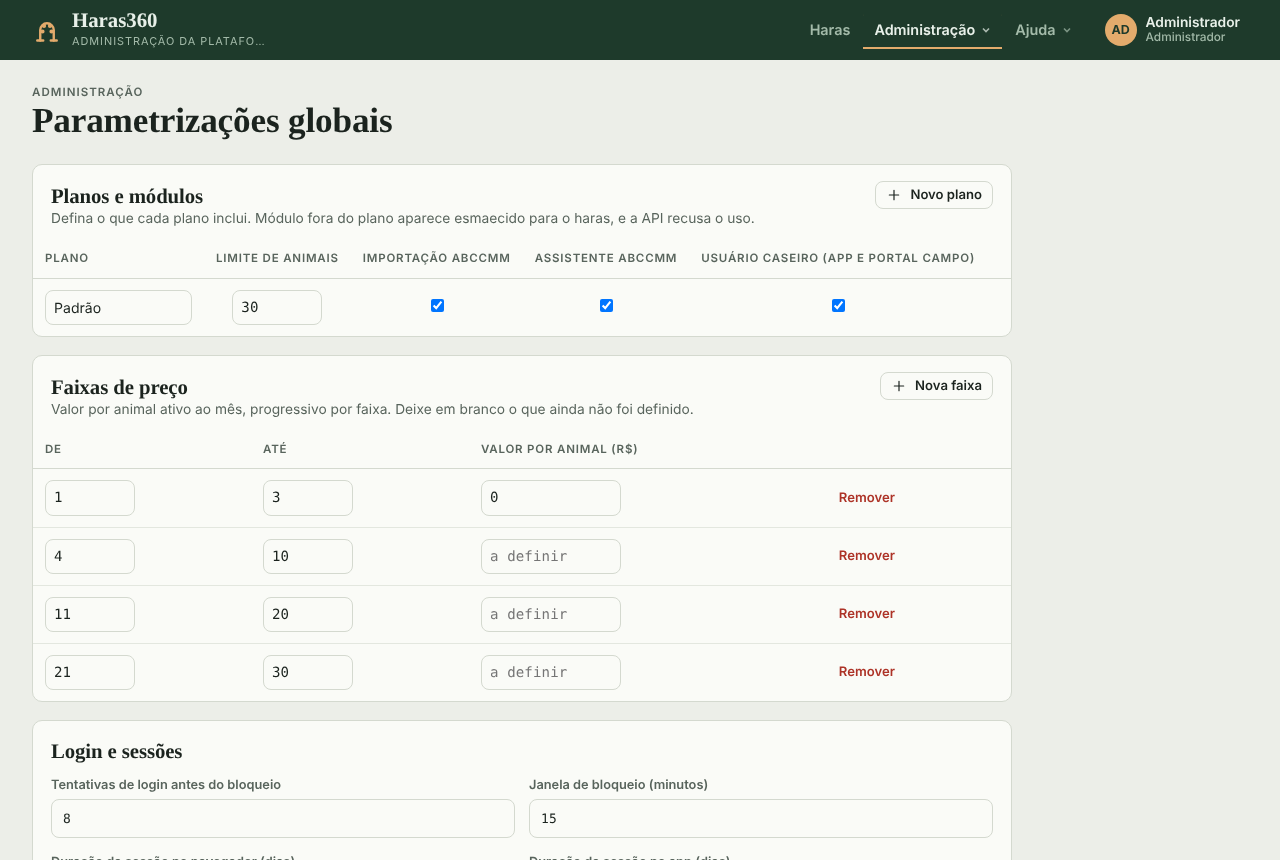
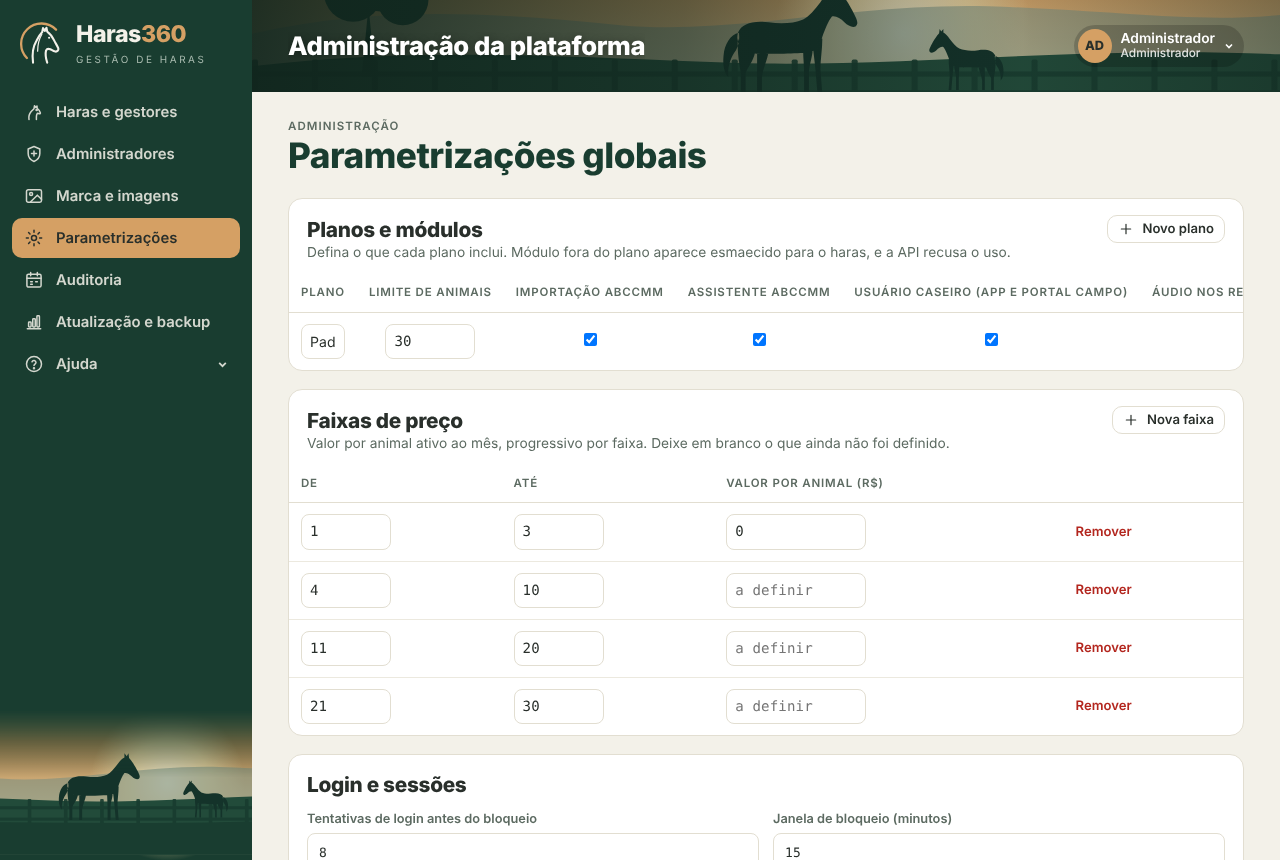
v1.3.0: versão, histórico, README, manual (menus, imagens do haras, marca da plataforma), capturas novas e teste do app sem aviso nas capturas
Claude-Session: https://claude.ai/code/session_01WrFXA8vd7puHpu6whifFWK

diff --git a/backend/app/static/ajuda.html b/backend/app/static/ajuda.html
@@ -381,7 +381,7 @@ kbd{font-family:var(--f-mono);font-size:.84em;background:var(--surface-2);border
 <header class="acab"><div class="acab-in"><div class="row" style="gap:10px;margin-bottom:12px"><span id="marca-ajuda" class="row" style="gap:10px"><svg class="logo-sim" viewBox="0 0 120 120" aria-hidden="true"><path d="M18 94 A50 50 0 0 1 94 20" fill="none" stroke="#D5A064" stroke-width="6" stroke-linecap="round"/><path d="M34 106 C31 84 34 64 43 49 C48 39 53 31 58 26 L60 16 L65 23 L69 15 L71 25 C78 30 84 38 89 48 C93 56 98 63 100 69 C101 74 97 78 92 77 C87 76 83 73 79 71 C74 69 70 70 68 74 C66 82 67 94 71 106" fill="none" stroke="#F3F1E9" stroke-width="5.5" stroke-linejoin="round" stroke-linecap="round"/><path d="M57 32 C50 44 46 58 46 76" fill="none" stroke="#F3F1E9" stroke-width="3.2" stroke-linecap="round"/><circle cx="76" cy="41" r="2.8" fill="#F3F1E9"/></svg><span class="marca-txt"><b>Haras<i>360</i></b><small>Gestão de haras</small></span></span></div><div class="eyebrow" style="color:var(--forest-muted)">Ajuda</div><h1>Manual do Haras360</h1><p>Como usar o portal do gestor, o Portal Campo e a administração da plataforma. As telas mostram o Haras Demonstração, com dados fictícios.</p></div></header>
 <div class="corpo">
   <nav class="sumario" aria-label="Sumário">
-    <a href="#acesso">Primeiro acesso e 2FA</a><a href="#painel">Painel</a><a href="#importar">Importar ABCCMM</a><a href="#animais">Animais e prontuário</a><a href="#agenda">Agenda e protocolos</a><a href="#campo">Portal Campo</a><a href="#app">App Android do caseiro</a><a href="#equipe">Equipe e sessões</a><a href="#parametros">Parametrizações</a><a href="#auditoria">Auditoria</a><a href="#admin">Administração da plataforma</a><a href="#atualizacao">Atualização e backup</a>
+    <a href="#acesso">Primeiro acesso e 2FA</a><a href="#painel">Dashboard e menus</a><a href="#importar">Importar ABCCMM</a><a href="#animais">Animais e prontuário</a><a href="#agenda">Agenda e protocolos</a><a href="#campo">Portal Campo</a><a href="#app">App Android do caseiro</a><a href="#equipe">Equipe e sessões</a><a href="#parametros">Parametrizações</a><a href="#imagens">Imagens do haras</a><a href="#auditoria">Auditoria</a><a href="#admin">Administração da plataforma</a><a href="#marca">Marca e imagens da plataforma</a><a href="#atualizacao">Atualização e backup</a>
   </nav>
   <article>
     <section id="acesso"><h2>Primeiro acesso e verificação em duas etapas</h2>
@@ -390,10 +390,14 @@ kbd{font-family:var(--f-mono);font-size:.84em;background:var(--surface-2);border
       <figure><img src="/ajuda/img/2fa.png" alt="Tela de ativação do 2FA com QR Code" loading="lazy"><figcaption>Ativação do 2FA no primeiro acesso do gestor.</figcaption></figure>
       <p>Perdeu o celular? Na tela do código, use "Perdi o celular: usar código de recuperação". Depois, gere novos códigos no menu com o seu nome. Se não tiver mais códigos, outro gestor ou o administrador redefine o seu 2FA.</p>
     </section>
-    <section id="painel"><h2>Painel</h2><span class="perfil">Gestor</span>
-      <p>Mostra o que precisa de atenção: procedimentos atrasados, os previstos para os próximos 7 dias, pendências da ABCCMM, gestações em andamento e os últimos registros feitos pelo caseiro.</p>
-      <figure><img src="/ajuda/img/painel.png" alt="Painel do gestor" loading="lazy"><figcaption>Painel do gestor com a barra de menus no topo.</figcaption></figure>
-      <p>Os menus ficam agrupados: Plantel (Animais, Importar ABCCMM), Manejo (Agenda, Protocolos), Equipe, Assistente, Administração e Ajuda. O sino mostra os avisos não lidos.</p>
+    <section id="painel"><h2>Dashboard e menus</h2><span class="perfil">Gestor</span>
+      <p>O Dashboard mostra o que precisa de atenção: cinco indicadores (animais, vacinas vencidas, vacinas dos próximos 7 dias, gestações ativas e partos previstos para 30 dias), os próximos eventos, a composição do rebanho, a situação reprodutiva, a lista Atenção agora e os últimos registros feitos pelo caseiro.</p>
+      <figure><img src="/ajuda/img/painel.png" alt="Dashboard do gestor" loading="lazy"><figcaption>Dashboard do gestor com o menu lateral.</figcaption></figure>
+      <p>O menu fica na lateral, agrupado por módulo: Dashboard; Animais (Plantel, Importar ABCCMM); Sanidade (Vacinas e manejos, Protocolos); Reprodução; Agenda; Relatórios (em breve); Administração (Equipe, Parametrizações, Auditoria, Assistente, Plano) e Ajuda. Toque no nome do grupo para abrir ou fechar. No celular, o menu abre pelo botão ☰. No cabeçalho ficam o logotipo e o nome do haras, o sino com os avisos não lidos e o menu com o seu nome.</p>
+      <div class="fotos-app">
+        <figure><img src="/ajuda/img/sanidade.png" alt="Vacinas e manejos" loading="lazy"><figcaption>Sanidade › Vacinas e manejos.</figcaption></figure>
+        <figure><img src="/ajuda/img/reproducao.png" alt="Reprodução" loading="lazy"><figcaption>Reprodução: coberturas, diagnósticos e partos previstos.</figcaption></figure>
+      </div>
     </section>
     <section id="importar"><h2>Importar o Relatório de Plantel ABCCMM</h2><span class="perfil">Gestor</span>
       <ol><li>No Sistema de Gestão ABCCMM, gere o Relatório de Plantel em PDF.</li><li>Em Plantel › Importar ABCCMM, envie o PDF. A leitura acontece no seu navegador.</li><li>Confira a lista: o sistema compara com o total informado no relatório e marca animais novos, a atualizar e já cadastrados.</li><li>Clique em Importar. A agenda sanitária é calculada na hora.</li></ol>
@@ -410,24 +414,27 @@ kbd{font-family:var(--f-mono);font-size:.84em;background:var(--surface-2);border
       <p>Em Manejo › Protocolos você ajusta idades, séries, intervalos e ativa ou desativa cada item. Os padrões seguem a VetJr. UFMG para vacinas e práticas de mercado para os demais manejos; valide com o veterinário do plantel.</p>
     </section>
     <section id="campo"><h2>Portal Campo do caseiro</h2><span class="perfil">Caseiro</span>
-      <p>Feito para o celular: tarefas do dia, fichas dos animais, registro com fotos e ocorrências. Ao tocar em Registrar em uma tarefa, o formulário já vem preenchido.</p>
+      <p>Feito para o celular: tarefas do dia, fichas dos animais, registro com fotos e ocorrências. Ao tocar em Registrar em uma tarefa, o formulário já vem preenchido. O botão <b>Registrar ocorrência</b> fica no topo da tela Hoje. A barra de baixo tem Hoje, Animais, Agenda (próximos 30 dias) e Mais (avisos, assistente, instalar o app, senha, manual e sair).</p>
       <figure><img src="/ajuda/img/campo.png" alt="Portal Campo no celular" loading="lazy" style="max-width:420px"><figcaption>Portal Campo na largura de um celular.</figcaption></figure>
       <p>Para trabalhar sem internet no campo, use o app Android: toque em <b>Instalar o app Android</b>, no topo da tela Hoje.</p>
     </section>
     <section id="app"><h2>App Android do caseiro</h2><span class="perfil">Caseiro</span><span class="perfil">Gestor</span>
       <p>O app funciona sem internet: o caseiro registra no pasto e o celular envia sozinho quando chega ao Wi-Fi da sede. Dados móveis (3G/4G) não são usados. Android 8 ou superior.</p>
-      <ol><li><b>Instalar:</b> no celular do caseiro, entre no Portal Campo e toque em Instalar o app Android, no topo da tela Hoje. O gestor também encontra o link e um QR Code de download na janela Vincular celular. Se o Android pedir, permita instalar apps desta origem.</li><li><b>Vincular:</b> o gestor abre Equipe e toca em Vincular celular na linha do caseiro. No app, toque em Ler QR Code. O código vale 10 minutos e uma única vez. Sem câmera, digite o servidor e o código mostrados abaixo do QR Code.</li><li><b>Trabalhar:</b> a tela Hoje mostra as tarefas atrasadas, de hoje e da semana. Toque em Registrar numa tarefa e o formulário já vem preenchido. Até 4 fotos por registro, comprimidas no celular, e um áudio de até 2 minutos: toque em Gravar áudio, fale e toque em Parar. Dá para ouvir e apagar antes de salvar.</li><li><b>Enviar:</b> a cada hora, e sempre que o app abre no Wi-Fi, os registros e as fotos vão para o servidor. Na aba Envio estão a fila, a hora da última sincronização e o botão Sincronizar agora.</li></ol>
+      <ol><li><b>Instalar:</b> no celular do caseiro, entre no Portal Campo e toque em Instalar o app Android, no topo da tela Hoje. O gestor também encontra o link e um QR Code de download na janela Vincular celular. Se o Android pedir, permita instalar apps desta origem.</li><li><b>Vincular:</b> o gestor abre Equipe e toca em Vincular celular na linha do caseiro. No app, toque em Ler QR Code. O código vale 10 minutos e uma única vez. Sem câmera, digite o servidor e o código mostrados abaixo do QR Code.</li><li><b>Trabalhar:</b> a tela Hoje mostra as tarefas atrasadas, de hoje e da semana. Toque em Registrar numa tarefa e o formulário já vem preenchido. Até 4 fotos por registro, comprimidas no celular, e um áudio de até 2 minutos: toque em Gravar áudio, fale e toque em Parar. Dá para ouvir e apagar antes de salvar.</li><li><b>Enviar:</b> a cada hora, e sempre que o app abre no Wi-Fi, os registros e as fotos vão para o servidor. Em Mais › Envio estão a fila, a hora da última sincronização e o botão Sincronizar agora.</li></ol>
+      <p>A barra de baixo do app tem Hoje, Animais, Agenda (próximos 30 dias) e Mais (Avisos, Envio, versão do app e vincular de novo). O fundo e o logotipo do haras são baixados no Wi-Fi e ficam guardados no celular.</p>
       <figure><img src="/ajuda/img/vincular.png" alt="QR Code para vincular o celular do caseiro" loading="lazy"><figcaption>Equipe › Vincular celular: o QR Code que o app lê.</figcaption></figure>
       <div class="fotos-app">
         <figure><img src="/ajuda/img/app-hoje.png" alt="Tela Hoje do app" loading="lazy"><figcaption>Tarefas do dia, mesmo sem internet.</figcaption></figure>
         <figure><img src="/ajuda/img/app-registro.png" alt="Registro de ocorrência no app, com áudio" loading="lazy"><figcaption>Registro com áudio, gravado no celular.</figcaption></figure>
-        <figure><img src="/ajuda/img/app-envio-pendente.png" alt="Aba Envio com um registro aguardando o Wi-Fi" loading="lazy"><figcaption>Aguardando o Wi-Fi para enviar.</figcaption></figure>
+        <figure><img src="/ajuda/img/app-agenda.png" alt="Agenda do app" loading="lazy"><figcaption>Agenda dos próximos 30 dias.</figcaption></figure>
+        <figure><img src="/ajuda/img/app-mais.png" alt="Tela Mais do app" loading="lazy"><figcaption>Mais: avisos, envio e versão.</figcaption></figure>
+        <figure><img src="/ajuda/img/app-envio-pendente.png" alt="Envio com um registro aguardando o Wi-Fi" loading="lazy"><figcaption>Aguardando o Wi-Fi para enviar.</figcaption></figure>
       </div>
       <p>O registro feito no app aparece no prontuário com a origem "App". Quando tem áudio, o gestor ouve pelo player no próprio registro, no prontuário e nos últimos registros do campo do Painel. O áudio vai para o servidor só no Wi-Fi, como as fotos, e sai junto se o registro for excluído.</p>
       <figure><img src="/ajuda/img/audio-painel.png" alt="Player de áudio nos últimos registros do campo" loading="lazy" style="max-width:460px"><figcaption>Áudio do caseiro no Painel do gestor.</figcaption></figure>
       <p>O administrador liga ou desliga o áudio por plano (grade de planos e módulos) e define a duração máxima em Parametrizações › App do caseiro.</p>
       <p> O gestor pode encerrar o celular em Equipe › Sessões e aparelhos ativos; os registros que ainda estiverem no celular continuam guardados até um novo vínculo. Se o servidor recusar um registro (por exemplo, animal excluído), ele fica em Envio › Recusados pelo servidor, com Tentar de novo.</p>
-      <p>Quando o servidor recebe uma versão nova, o app avisa na aba Envio e oferece o download. A atualização instala por cima, sem perder dados.</p>
+      <p>Quando o servidor recebe uma versão nova, o app avisa em Mais › Envio e oferece o download. A atualização instala por cima, sem perder dados.</p>
     </section>
     <section id="equipe"><h2>Equipe e sessões</h2><span class="perfil">Gestor</span>
       <p>Adicione gestores e caseiros com senha inicial. Para cada pessoa você pode redefinir a senha, redefinir o 2FA de outro gestor e desativar o acesso. Em Sessões e aparelhos ativos aparecem os navegadores e celulares conectados; encerre os que não reconhecer.</p>
@@ -436,6 +443,12 @@ kbd{font-family:var(--f-mono);font-size:.84em;background:var(--surface-2);border
     <section id="parametros"><h2>Parametrizações do haras</h2><span class="perfil">Gestor</span>
       <p>Logotipo do haras, dados do haras, reforço da raiva anual ou semestral, dias de gestação usados na previsão de parto e tolerância para reiniciar a primovacinação.</p><p>O logotipo aparece na barra superior do Portal do Gestor e do Portal Campo. Envie PNG, JPG ou WebP com fundo branco ou transparente: o sistema recorta as margens vazias e reduz a imagem. O administrador também pode enviar ou trocar o logotipo ao cadastrar o haras.</p>
       <figure><img src="/ajuda/img/parametros.png" alt="Parametrizações do haras" loading="lazy"><figcaption>Parametrizações do haras.</figcaption></figure>
+    </section>
+    <section id="imagens"><h2>Imagens do haras</h2><span class="perfil">Gestor</span>
+      <p>Em Administração › Parametrizações › Imagens do haras, o gestor personaliza o portal e o app com imagens próprias:</p>
+      <ul><li><b>Imagem do cabeçalho:</b> faixa no topo do Portal do Gestor e do Portal Campo.</li><li><b>Banner do Dashboard:</b> imagem larga no Dashboard.</li><li><b>Fundo do app:</b> fundo da tela de abertura e do topo da tela Hoje no app Android.</li></ul>
+      <p>Envie PNG, JPG ou WebP de até 3 MB. O navegador reduz a imagem antes do envio. Escolha o foco (centro, topo ou base) para indicar que parte aparece quando a imagem é recortada. <b>Usar a padrão</b> volta para a imagem da plataforma. Cada troca fica na auditoria. O app baixa a imagem nova na próxima sincronização pelo Wi-Fi.</p>
+      <figure><img src="/ajuda/img/imagens.png" alt="Imagens do haras" loading="lazy"><figcaption>Imagens do haras com um banner próprio.</figcaption></figure>
     </section>
     <section id="auditoria"><h2>Auditoria</h2><span class="perfil">Gestor</span><span class="perfil">Administrador</span>
       <p>Registra logins (inclusive recusados), 2FA, importações, exclusões com o conteúdo excluído, mudanças de protocolo e de parametrização, usuários, atualizações e backups. Filtre por ação, texto e período.</p>
@@ -447,6 +460,14 @@ kbd{font-family:var(--f-mono);font-size:.84em;background:var(--surface-2);border
       <figure><img src="/ajuda/img/admin-parametros.png" alt="Planos e módulos" loading="lazy"><figcaption>Grade de planos e módulos. Por padrão tudo vem liberado.</figcaption></figure>
       <p>Em Administração › Administradores, crie outros administradores, redefina a senha ou o 2FA de outro administrador e desative quem não deve mais entrar. Cada ação pede a sua senha e fica na auditoria. Ninguém desativa a própria conta, e a plataforma nunca fica sem administrador ativo. Para a sua conta, use o menu com o seu nome.</p>
       <figure><img src="/ajuda/img/admin-administradores.png" alt="Lista de administradores" loading="lazy"><figcaption>Administradores da plataforma.</figcaption></figure>
+    </section>
+    <section id="marca"><h2>Marca e imagens da plataforma</h2><span class="perfil">Administrador</span>
+      <p>Em Marca e imagens, o administrador troca o logotipo da plataforma e as imagens padrão: imagem da tela de entrada, cabeçalho, banner do Dashboard e fundo do app. As imagens padrão valem para todos os haras que não enviaram a sua. Sem nenhuma imagem enviada, o Haras360 usa a sua ilustração própria.</p>
+      <div class="fotos-app">
+        <figure><img src="/ajuda/img/admin-marca.png" alt="Marca e imagens" loading="lazy"><figcaption>Logotipo e imagens padrão da plataforma.</figcaption></figure>
+        <figure><img src="/ajuda/img/entrar.png" alt="Tela de entrada" loading="lazy"><figcaption>Tela de entrada com a imagem da plataforma.</figcaption></figure>
+      </div>
+      <p>As imagens ficam em <code>/opt/haras360/compartilhado/imagens</code> e entram no backup diário.</p>
     </section>
     <section id="atualizacao"><h2>Atualização e backup</h2><span class="perfil">Administrador</span>
       <ol><li>Na Release da versão no GitHub, baixe <span class="mono">haras360-X.Y.Z.tar.gz</span> e anote o SHA-256.</li><li>No Windows, rode <kbd>python assinar-pacote.py haras360-X.Y.Z.tar.gz</kbd> e digite a senha da chave (a mesma do Journey). Sai o arquivo <span class="mono">.sig</span>.</li><li>Em Administração › Atualização e backup, envie o pacote e a assinatura.</li></ol>

diff --git a/web/ajuda.html b/web/ajuda.html
@@ -30,7 +30,7 @@ kbd{font-family:var(--f-mono);font-size:.84em;background:var(--surface-2);border
 <header class="acab"><div class="acab-in"><div class="row" style="gap:10px;margin-bottom:12px"><span id="marca-ajuda" class="row" style="gap:10px"><svg class="logo-sim" viewBox="0 0 120 120" aria-hidden="true"><path d="M18 94 A50 50 0 0 1 94 20" fill="none" stroke="#D5A064" stroke-width="6" stroke-linecap="round"/><path d="M34 106 C31 84 34 64 43 49 C48 39 53 31 58 26 L60 16 L65 23 L69 15 L71 25 C78 30 84 38 89 48 C93 56 98 63 100 69 C101 74 97 78 92 77 C87 76 83 73 79 71 C74 69 70 70 68 74 C66 82 67 94 71 106" fill="none" stroke="#F3F1E9" stroke-width="5.5" stroke-linejoin="round" stroke-linecap="round"/><path d="M57 32 C50 44 46 58 46 76" fill="none" stroke="#F3F1E9" stroke-width="3.2" stroke-linecap="round"/><circle cx="76" cy="41" r="2.8" fill="#F3F1E9"/></svg><span class="marca-txt"><b>Haras<i>360</i></b><small>Gestão de haras</small></span></span></div><div class="eyebrow" style="color:var(--forest-muted)">Ajuda</div><h1>Manual do Haras360</h1><p>Como usar o portal do gestor, o Portal Campo e a administração da plataforma. As telas mostram o Haras Demonstração, com dados fictícios.</p></div></header>
 <div class="corpo">
   <nav class="sumario" aria-label="Sumário">
-    <a href="#acesso">Primeiro acesso e 2FA</a><a href="#painel">Painel</a><a href="#importar">Importar ABCCMM</a><a href="#animais">Animais e prontuário</a><a href="#agenda">Agenda e protocolos</a><a href="#campo">Portal Campo</a><a href="#app">App Android do caseiro</a><a href="#equipe">Equipe e sessões</a><a href="#parametros">Parametrizações</a><a href="#auditoria">Auditoria</a><a href="#admin">Administração da plataforma</a><a href="#atualizacao">Atualização e backup</a>
+    <a href="#acesso">Primeiro acesso e 2FA</a><a href="#painel">Dashboard e menus</a><a href="#importar">Importar ABCCMM</a><a href="#animais">Animais e prontuário</a><a href="#agenda">Agenda e protocolos</a><a href="#campo">Portal Campo</a><a href="#app">App Android do caseiro</a><a href="#equipe">Equipe e sessões</a><a href="#parametros">Parametrizações</a><a href="#imagens">Imagens do haras</a><a href="#auditoria">Auditoria</a><a href="#admin">Administração da plataforma</a><a href="#marca">Marca e imagens da plataforma</a><a href="#atualizacao">Atualização e backup</a>
   </nav>
   <article>
     <section id="acesso"><h2>Primeiro acesso e verificação em duas etapas</h2>
@@ -39,10 +39,14 @@ kbd{font-family:var(--f-mono);font-size:.84em;background:var(--surface-2);border
       <figure><img src="/ajuda/img/2fa.png" alt="Tela de ativação do 2FA com QR Code" loading="lazy"><figcaption>Ativação do 2FA no primeiro acesso do gestor.</figcaption></figure>
       <p>Perdeu o celular? Na tela do código, use "Perdi o celular: usar código de recuperação". Depois, gere novos códigos no menu com o seu nome. Se não tiver mais códigos, outro gestor ou o administrador redefine o seu 2FA.</p>
     </section>
-    <section id="painel"><h2>Painel</h2><span class="perfil">Gestor</span>
-      <p>Mostra o que precisa de atenção: procedimentos atrasados, os previstos para os próximos 7 dias, pendências da ABCCMM, gestações em andamento e os últimos registros feitos pelo caseiro.</p>
-      <figure><img src="/ajuda/img/painel.png" alt="Painel do gestor" loading="lazy"><figcaption>Painel do gestor com a barra de menus no topo.</figcaption></figure>
-      <p>Os menus ficam agrupados: Plantel (Animais, Importar ABCCMM), Manejo (Agenda, Protocolos), Equipe, Assistente, Administração e Ajuda. O sino mostra os avisos não lidos.</p>
+    <section id="painel"><h2>Dashboard e menus</h2><span class="perfil">Gestor</span>
+      <p>O Dashboard mostra o que precisa de atenção: cinco indicadores (animais, vacinas vencidas, vacinas dos próximos 7 dias, gestações ativas e partos previstos para 30 dias), os próximos eventos, a composição do rebanho, a situação reprodutiva, a lista Atenção agora e os últimos registros feitos pelo caseiro.</p>
+      <figure><img src="/ajuda/img/painel.png" alt="Dashboard do gestor" loading="lazy"><figcaption>Dashboard do gestor com o menu lateral.</figcaption></figure>
+      <p>O menu fica na lateral, agrupado por módulo: Dashboard; Animais (Plantel, Importar ABCCMM); Sanidade (Vacinas e manejos, Protocolos); Reprodução; Agenda; Relatórios (em breve); Administração (Equipe, Parametrizações, Auditoria, Assistente, Plano) e Ajuda. Toque no nome do grupo para abrir ou fechar. No celular, o menu abre pelo botão ☰. No cabeçalho ficam o logotipo e o nome do haras, o sino com os avisos não lidos e o menu com o seu nome.</p>
+      <div class="fotos-app">
+        <figure><img src="/ajuda/img/sanidade.png" alt="Vacinas e manejos" loading="lazy"><figcaption>Sanidade › Vacinas e manejos.</figcaption></figure>
+        <figure><img src="/ajuda/img/reproducao.png" alt="Reprodução" loading="lazy"><figcaption>Reprodução: coberturas, diagnósticos e partos previstos.</figcaption></figure>
+      </div>
     </section>
     <section id="importar"><h2>Importar o Relatório de Plantel ABCCMM</h2><span class="perfil">Gestor</span>
       <ol><li>No Sistema de Gestão ABCCMM, gere o Relatório de Plantel em PDF.</li><li>Em Plantel › Importar ABCCMM, envie o PDF. A leitura acontece no seu navegador.</li><li>Confira a lista: o sistema compara com o total informado no relatório e marca animais novos, a atualizar e já cadastrados.</li><li>Clique em Importar. A agenda sanitária é calculada na hora.</li></ol>
@@ -59,24 +63,27 @@ kbd{font-family:var(--f-mono);font-size:.84em;background:var(--surface-2);border
       <p>Em Manejo › Protocolos você ajusta idades, séries, intervalos e ativa ou desativa cada item. Os padrões seguem a VetJr. UFMG para vacinas e práticas de mercado para os demais manejos; valide com o veterinário do plantel.</p>
     </section>
     <section id="campo"><h2>Portal Campo do caseiro</h2><span class="perfil">Caseiro</span>
-      <p>Feito para o celular: tarefas do dia, fichas dos animais, registro com fotos e ocorrências. Ao tocar em Registrar em uma tarefa, o formulário já vem preenchido.</p>
+      <p>Feito para o celular: tarefas do dia, fichas dos animais, registro com fotos e ocorrências. Ao tocar em Registrar em uma tarefa, o formulário já vem preenchido. O botão <b>Registrar ocorrência</b> fica no topo da tela Hoje. A barra de baixo tem Hoje, Animais, Agenda (próximos 30 dias) e Mais (avisos, assistente, instalar o app, senha, manual e sair).</p>
       <figure><img src="/ajuda/img/campo.png" alt="Portal Campo no celular" loading="lazy" style="max-width:420px"><figcaption>Portal Campo na largura de um celular.</figcaption></figure>
       <p>Para trabalhar sem internet no campo, use o app Android: toque em <b>Instalar o app Android</b>, no topo da tela Hoje.</p>
     </section>
     <section id="app"><h2>App Android do caseiro</h2><span class="perfil">Caseiro</span><span class="perfil">Gestor</span>
       <p>O app funciona sem internet: o caseiro registra no pasto e o celular envia sozinho quando chega ao Wi-Fi da sede. Dados móveis (3G/4G) não são usados. Android 8 ou superior.</p>
-      <ol><li><b>Instalar:</b> no celular do caseiro, entre no Portal Campo e toque em Instalar o app Android, no topo da tela Hoje. O gestor também encontra o link e um QR Code de download na janela Vincular celular. Se o Android pedir, permita instalar apps desta origem.</li><li><b>Vincular:</b> o gestor abre Equipe e toca em Vincular celular na linha do caseiro. No app, toque em Ler QR Code. O código vale 10 minutos e uma única vez. Sem câmera, digite o servidor e o código mostrados abaixo do QR Code.</li><li><b>Trabalhar:</b> a tela Hoje mostra as tarefas atrasadas, de hoje e da semana. Toque em Registrar numa tarefa e o formulário já vem preenchido. Até 4 fotos por registro, comprimidas no celular, e um áudio de até 2 minutos: toque em Gravar áudio, fale e toque em Parar. Dá para ouvir e apagar antes de salvar.</li><li><b>Enviar:</b> a cada hora, e sempre que o app abre no Wi-Fi, os registros e as fotos vão para o servidor. Na aba Envio estão a fila, a hora da última sincronização e o botão Sincronizar agora.</li></ol>
+      <ol><li><b>Instalar:</b> no celular do caseiro, entre no Portal Campo e toque em Instalar o app Android, no topo da tela Hoje. O gestor também encontra o link e um QR Code de download na janela Vincular celular. Se o Android pedir, permita instalar apps desta origem.</li><li><b>Vincular:</b> o gestor abre Equipe e toca em Vincular celular na linha do caseiro. No app, toque em Ler QR Code. O código vale 10 minutos e uma única vez. Sem câmera, digite o servidor e o código mostrados abaixo do QR Code.</li><li><b>Trabalhar:</b> a tela Hoje mostra as tarefas atrasadas, de hoje e da semana. Toque em Registrar numa tarefa e o formulário já vem preenchido. Até 4 fotos por registro, comprimidas no celular, e um áudio de até 2 minutos: toque em Gravar áudio, fale e toque em Parar. Dá para ouvir e apagar antes de salvar.</li><li><b>Enviar:</b> a cada hora, e sempre que o app abre no Wi-Fi, os registros e as fotos vão para o servidor. Em Mais › Envio estão a fila, a hora da última sincronização e o botão Sincronizar agora.</li></ol>
+      <p>A barra de baixo do app tem Hoje, Animais, Agenda (próximos 30 dias) e Mais (Avisos, Envio, versão do app e vincular de novo). O fundo e o logotipo do haras são baixados no Wi-Fi e ficam guardados no celular.</p>
       <figure><img src="/ajuda/img/vincular.png" alt="QR Code para vincular o celular do caseiro" loading="lazy"><figcaption>Equipe › Vincular celular: o QR Code que o app lê.</figcaption></figure>
       <div class="fotos-app">
         <figure><img src="/ajuda/img/app-hoje.png" alt="Tela Hoje do app" loading="lazy"><figcaption>Tarefas do dia, mesmo sem internet.</figcaption></figure>
         <figure><img src="/ajuda/img/app-registro.png" alt="Registro de ocorrência no app, com áudio" loading="lazy"><figcaption>Registro com áudio, gravado no celular.</figcaption></figure>
-        <figure><img src="/ajuda/img/app-envio-pendente.png" alt="Aba Envio com um registro aguardando o Wi-Fi" loading="lazy"><figcaption>Aguardando o Wi-Fi para enviar.</figcaption></figure>
+        <figure><img src="/ajuda/img/app-agenda.png" alt="Agenda do app" loading="lazy"><figcaption>Agenda dos próximos 30 dias.</figcaption></figure>
+        <figure><img src="/ajuda/img/app-mais.png" alt="Tela Mais do app" loading="lazy"><figcaption>Mais: avisos, envio e versão.</figcaption></figure>
+        <figure><img src="/ajuda/img/app-envio-pendente.png" alt="Envio com um registro aguardando o Wi-Fi" loading="lazy"><figcaption>Aguardando o Wi-Fi para enviar.</figcaption></figure>
       </div>
       <p>O registro feito no app aparece no prontuário com a origem "App". Quando tem áudio, o gestor ouve pelo player no próprio registro, no prontuário e nos últimos registros do campo do Painel. O áudio vai para o servidor só no Wi-Fi, como as fotos, e sai junto se o registro for excluído.</p>
       <figure><img src="/ajuda/img/audio-painel.png" alt="Player de áudio nos últimos registros do campo" loading="lazy" style="max-width:460px"><figcaption>Áudio do caseiro no Painel do gestor.</figcaption></figure>
       <p>O administrador liga ou desliga o áudio por plano (grade de planos e módulos) e define a duração máxima em Parametrizações › App do caseiro.</p>
       <p> O gestor pode encerrar o celular em Equipe › Sessões e aparelhos ativos; os registros que ainda estiverem no celular continuam guardados até um novo vínculo. Se o servidor recusar um registro (por exemplo, animal excluído), ele fica em Envio › Recusados pelo servidor, com Tentar de novo.</p>
-      <p>Quando o servidor recebe uma versão nova, o app avisa na aba Envio e oferece o download. A atualização instala por cima, sem perder dados.</p>
+      <p>Quando o servidor recebe uma versão nova, o app avisa em Mais › Envio e oferece o download. A atualização instala por cima, sem perder dados.</p>
     </section>
     <section id="equipe"><h2>Equipe e sessões</h2><span class="perfil">Gestor</span>
       <p>Adicione gestores e caseiros com senha inicial. Para cada pessoa você pode redefinir a senha, redefinir o 2FA de outro gestor e desativar o acesso. Em Sessões e aparelhos ativos aparecem os navegadores e celulares conectados; encerre os que não reconhecer.</p>
@@ -85,6 +92,12 @@ kbd{font-family:var(--f-mono);font-size:.84em;background:var(--surface-2);border
     <section id="parametros"><h2>Parametrizações do haras</h2><span class="perfil">Gestor</span>
       <p>Logotipo do haras, dados do haras, reforço da raiva anual ou semestral, dias de gestação usados na previsão de parto e tolerância para reiniciar a primovacinação.</p><p>O logotipo aparece na barra superior do Portal do Gestor e do Portal Campo. Envie PNG, JPG ou WebP com fundo branco ou transparente: o sistema recorta as margens vazias e reduz a imagem. O administrador também pode enviar ou trocar o logotipo ao cadastrar o haras.</p>
       <figure><img src="/ajuda/img/parametros.png" alt="Parametrizações do haras" loading="lazy"><figcaption>Parametrizações do haras.</figcaption></figure>
+    </section>
+    <section id="imagens"><h2>Imagens do haras</h2><span class="perfil">Gestor</span>
+      <p>Em Administração › Parametrizações › Imagens do haras, o gestor personaliza o portal e o app com imagens próprias:</p>
+      <ul><li><b>Imagem do cabeçalho:</b> faixa no topo do Portal do Gestor e do Portal Campo.</li><li><b>Banner do Dashboard:</b> imagem larga no Dashboard.</li><li><b>Fundo do app:</b> fundo da tela de abertura e do topo da tela Hoje no app Android.</li></ul>
+      <p>Envie PNG, JPG ou WebP de até 3 MB. O navegador reduz a imagem antes do envio. Escolha o foco (centro, topo ou base) para indicar que parte aparece quando a imagem é recortada. <b>Usar a padrão</b> volta para a imagem da plataforma. Cada troca fica na auditoria. O app baixa a imagem nova na próxima sincronização pelo Wi-Fi.</p>
+      <figure><img src="/ajuda/img/imagens.png" alt="Imagens do haras" loading="lazy"><figcaption>Imagens do haras com um banner próprio.</figcaption></figure>
     </section>
     <section id="auditoria"><h2>Auditoria</h2><span class="perfil">Gestor</span><span class="perfil">Administrador</span>
       <p>Registra logins (inclusive recusados), 2FA, importações, exclusões com o conteúdo excluído, mudanças de protocolo e de parametrização, usuários, atualizações e backups. Filtre por ação, texto e período.</p>
@@ -96,6 +109,14 @@ kbd{font-family:var(--f-mono);font-size:.84em;background:var(--surface-2);border
       <figure><img src="/ajuda/img/admin-parametros.png" alt="Planos e módulos" loading="lazy"><figcaption>Grade de planos e módulos. Por padrão tudo vem liberado.</figcaption></figure>
       <p>Em Administração › Administradores, crie outros administradores, redefina a senha ou o 2FA de outro administrador e desative quem não deve mais entrar. Cada ação pede a sua senha e fica na auditoria. Ninguém desativa a própria conta, e a plataforma nunca fica sem administrador ativo. Para a sua conta, use o menu com o seu nome.</p>
       <figure><img src="/ajuda/img/admin-administradores.png" alt="Lista de administradores" loading="lazy"><figcaption>Administradores da plataforma.</figcaption></figure>
+    </section>
+    <section id="marca"><h2>Marca e imagens da plataforma</h2><span class="perfil">Administrador</span>
+      <p>Em Marca e imagens, o administrador troca o logotipo da plataforma e as imagens padrão: imagem da tela de entrada, cabeçalho, banner do Dashboard e fundo do app. As imagens padrão valem para todos os haras que não enviaram a sua. Sem nenhuma imagem enviada, o Haras360 usa a sua ilustração própria.</p>
+      <div class="fotos-app">
+        <figure><img src="/ajuda/img/admin-marca.png" alt="Marca e imagens" loading="lazy"><figcaption>Logotipo e imagens padrão da plataforma.</figcaption></figure>
+        <figure><img src="/ajuda/img/entrar.png" alt="Tela de entrada" loading="lazy"><figcaption>Tela de entrada com a imagem da plataforma.</figcaption></figure>
+      </div>
+      <p>As imagens ficam em <code>/opt/haras360/compartilhado/imagens</code> e entram no backup diário.</p>
     </section>
     <section id="atualizacao"><h2>Atualização e backup</h2><span class="perfil">Administrador</span>
       <ol><li>Na Release da versão no GitHub, baixe <span class="mono">haras360-X.Y.Z.tar.gz</span> e anote o SHA-256.</li><li>No Windows, rode <kbd>python assinar-pacote.py haras360-X.Y.Z.tar.gz</kbd> e digite a senha da chave (a mesma do Journey). Sai o arquivo <span class="mono">.sig</span>.</li><li>Em Administração › Atualização e backup, envie o pacote e a assinatura.</li></ol>

diff --git a/mobile/integration_test/app_test.dart b/mobile/integration_test/app_test.dart
@@ -107,6 +107,11 @@ void main() {
     await t.tap(find.text('Salvar registro'));
     await esperar(t, find.textContaining('Vai para o servidor quando houver Wi-Fi'));
     await esperar(t, find.textContaining('aguardando o Wi-Fi'));
+    // tira o aviso "Registro salvo" da frente das próximas capturas do manual
+    for (final m in t.stateList<ScaffoldMessengerState>(find.byType(ScaffoldMessenger))) {
+      m.clearSnackBars();
+    }
+    await t.pump(const Duration(milliseconds: 400));
 
     await aba(t, 'Agenda');
     await esperar(t, find.text('Próximos 30 dias'));

diff --git a/docs/HISTORICO.md b/docs/HISTORICO.md
@@ -2,6 +2,28 @@
 
 Uma nota por versão, da mais recente para a mais antiga.
 
+## v1.3.0 · 20/11/2026 · Nova identidade visual e personalização por imagens
+* **Identidade visual nova nos portais e no app:**
+  * logotipo próprio (perfil de cavalo com arco dourado) e ícone novo do app;
+  * paleta verde haras `#193D30`, dourado `#D5A064`, areia `#F3F1E9`, grafite `#292F2B` e verde sálvia `#82978A`;
+  * títulos em Manrope e texto em Inter, embutidas no APK para funcionar offline;
+  * ícones lineares e ilustração própria do Haras360 (cavalo ao pôr do sol), usada quando não há imagem enviada.
+* **Portal do Gestor:**
+  * menu lateral por módulo: Dashboard; Animais (Plantel, Importar ABCCMM); Sanidade (Vacinas e manejos, Protocolos); Reprodução; Agenda; Relatórios (em breve); Administração (Equipe, Parametrizações, Auditoria, Assistente, Plano) e Ajuda. No celular, o menu abre pelo botão ☰;
+  * cabeçalho com imagem, logotipo e nome do haras, sino de avisos e menu do usuário;
+  * Dashboard novo: cinco indicadores, próximos eventos, composição do rebanho, situação reprodutiva, Atenção agora, últimos registros do campo e banner;
+  * telas novas Sanidade › Vacinas e manejos e Reprodução.
+* **Portal Campo:** cabeçalho com imagem e logotipo, botão Registrar ocorrência no topo, barra de baixo com Hoje, Animais, Agenda e Mais.
+* **App Android:** abertura com o fundo do haras, tela Hoje com cabeçalho e botão grande Registrar ocorrência, abas Hoje, Animais, Agenda (30 dias) e Mais (Avisos, Envio, versão, vincular de novo).
+* **Personalização por imagens (tudo parametrizável):**
+  * o administrador troca, em Marca e imagens, o logotipo da plataforma e as imagens padrão (tela de entrada, cabeçalho, banner do Dashboard e fundo do app);
+  * o gestor troca, em Parametrizações › Imagens do haras, o cabeçalho, o banner do Dashboard e o fundo do app (o logotipo do haras continua em Parametrizações). A imagem do haras vale sobre a da plataforma;
+  * PNG, JPG ou WebP até 3 MB, conferidos pelo conteúdo, reduzidos no navegador, com foco (centro, topo ou base) e botão Usar a padrão. Cada troca vai para a auditoria;
+  * o app baixa o fundo e o logotipo no Wi-Fi e guarda no celular, para funcionar sem internet;
+  * a tela de entrada mostra a imagem e o logotipo da plataforma.
+* **Servidor:** migração 004 (tabela `imagens_marca`), rotas `/api/marca`, `/marca/{tipo}`, `/imagens/{tipo}`, `/api/haras/imagens/{tipo}` e `/api/admin/marca/{tipo}`. As imagens ficam em `compartilhado/imagens` e entram no backup diário.
+* **Testes:** 4 testes novos da API de imagens (66 no total); a verificação visual envia um banner, confere no Dashboard e volta ao padrão; o teste no emulador percorre Hoje, Animais, Agenda e Mais.
+
 ## v1.2.0 · 20/11/2026 · Áudio nos registros do caseiro
 * **App:** botão Gravar áudio no registro (até 2 minutos, AAC mono a 32 kbps, cerca de 250 KB por minuto), com contador, ouvir e apagar antes de salvar. Funciona sem internet: o áudio entra na fila e vai só no Wi-Fi, depois do registro e das fotos. A ficha do animal toca os áudios, inclusive os que ainda estão no celular.
 * **Servidor:** `POST /api/app/audios` (um por registro, tipo conferido pelo conteúdo, idempotente), `/audios/{id}` só para o mesmo haras, exclusão junto com o registro e migração 003.

diff --git a/README.md b/README.md
@@ -16,7 +16,8 @@ A especificação aprovada está em [`docs/ESPECIFICACAO.md`](docs/ESPECIFICACAO
 | v1.0.0 | 19/11/2026 | etapa/1.0-vps | Portais e API na segunda VM micro, sem Docker, 2FA, auditoria, parametrizações, logotipo do haras, pacote assinado com volta automática, backup OCI | Publicada |
 | v1.1.0 | 20/11/2026 | etapa/1.1-app-android | App Android do caseiro: offline, envio só no Wi-Fi, vínculo por QR Code, APK assinado servido pelo próprio servidor | Publicada |
 | v1.1.1 | 20/11/2026 | etapa/1.1.1-instalador | Instalador em VM compartilhada (porta livre, Caddy preservado, fuso), QR Code do 2FA, botão do app, tela de Administradores | Publicada |
-| v1.2.0 | 20/11/2026 | etapa/1.2-audio | Áudio nos registros do caseiro; chave pública no pacote; erro de atualização visível; SHA-256 em HTTP | Em teste (PR) |
+| v1.2.0 | 20/11/2026 | etapa/1.2-audio | Áudio nos registros do caseiro; chave pública no pacote; erro de atualização visível; SHA-256 em HTTP | Publicada |
+| v1.3.0 | 20/11/2026 | etapa/1.3-identidade-visual | Nova identidade visual (logotipo, paleta, Manrope e Inter), menu lateral por módulos, novo Dashboard, app com Hoje, Animais, Agenda e Mais; imagens próprias da plataforma e de cada haras | Em teste (PR) |
 
 Notas de cada versão: [`docs/HISTORICO.md`](docs/HISTORICO.md).
 

diff --git a/docs/IMPLANTACAO.md b/docs/IMPLANTACAO.md
@@ -89,7 +89,7 @@ Os usuários entram com as mesmas senhas e o mesmo 2FA.
 |---|---|
 | `/opt/haras360/releases/X.Y.Z` | cada versão instalada, com o seu ambiente Python |
 | `/opt/haras360/atual` | atalho para a versão em uso |
-| `/opt/haras360/compartilhado` | fotos, logotipos, fila de tarefas e backups |
+| `/opt/haras360/compartilhado` | fotos, áudios, logotipos, imagens de personalização (`imagens/`, desde a v1.3.0), fila de tarefas e backups |
 | `/etc/haras360/haras360.env` | configuração e segredos (permissão 640) |
 | `/etc/haras360/chave-publica.pem` | chave que confere os pacotes |
 | `/etc/caddy/Caddyfile` | porta pública 8090 |
